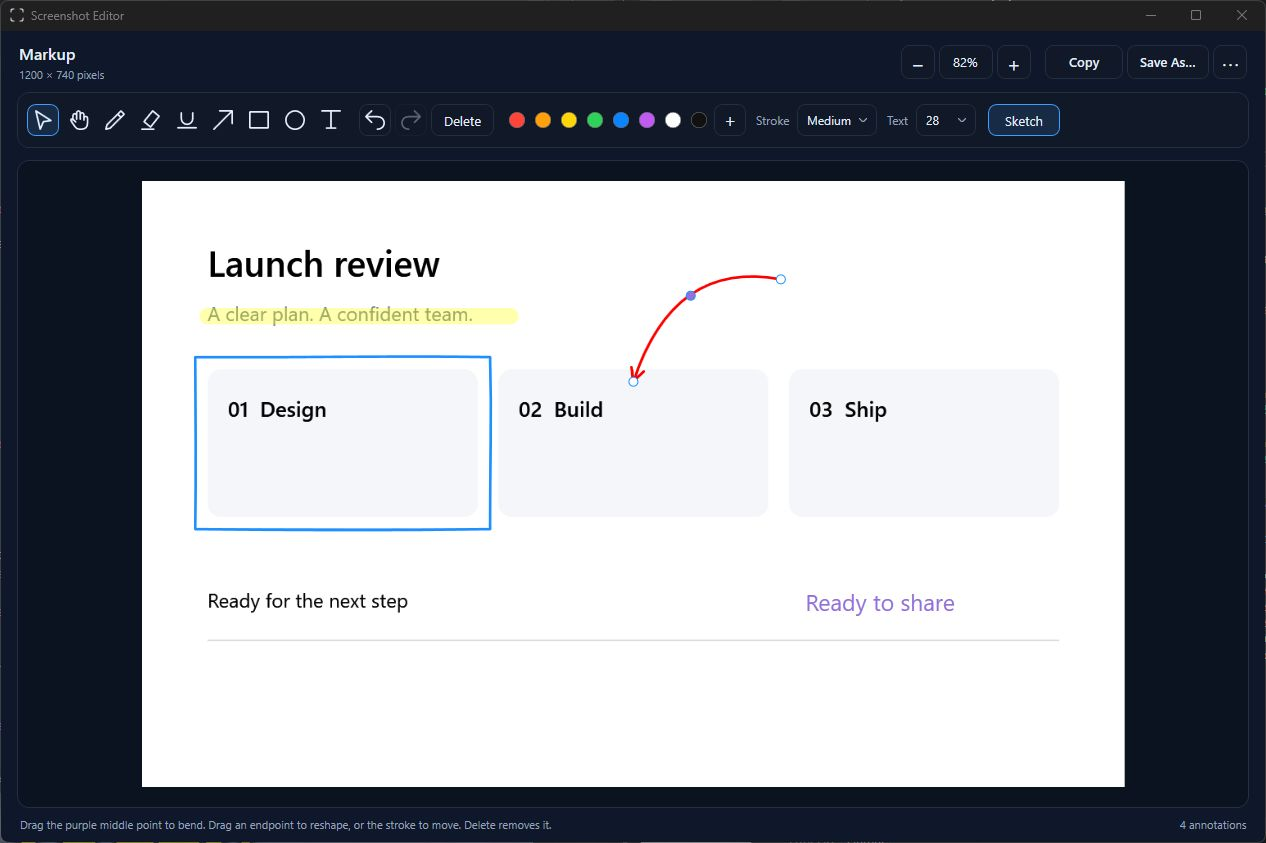
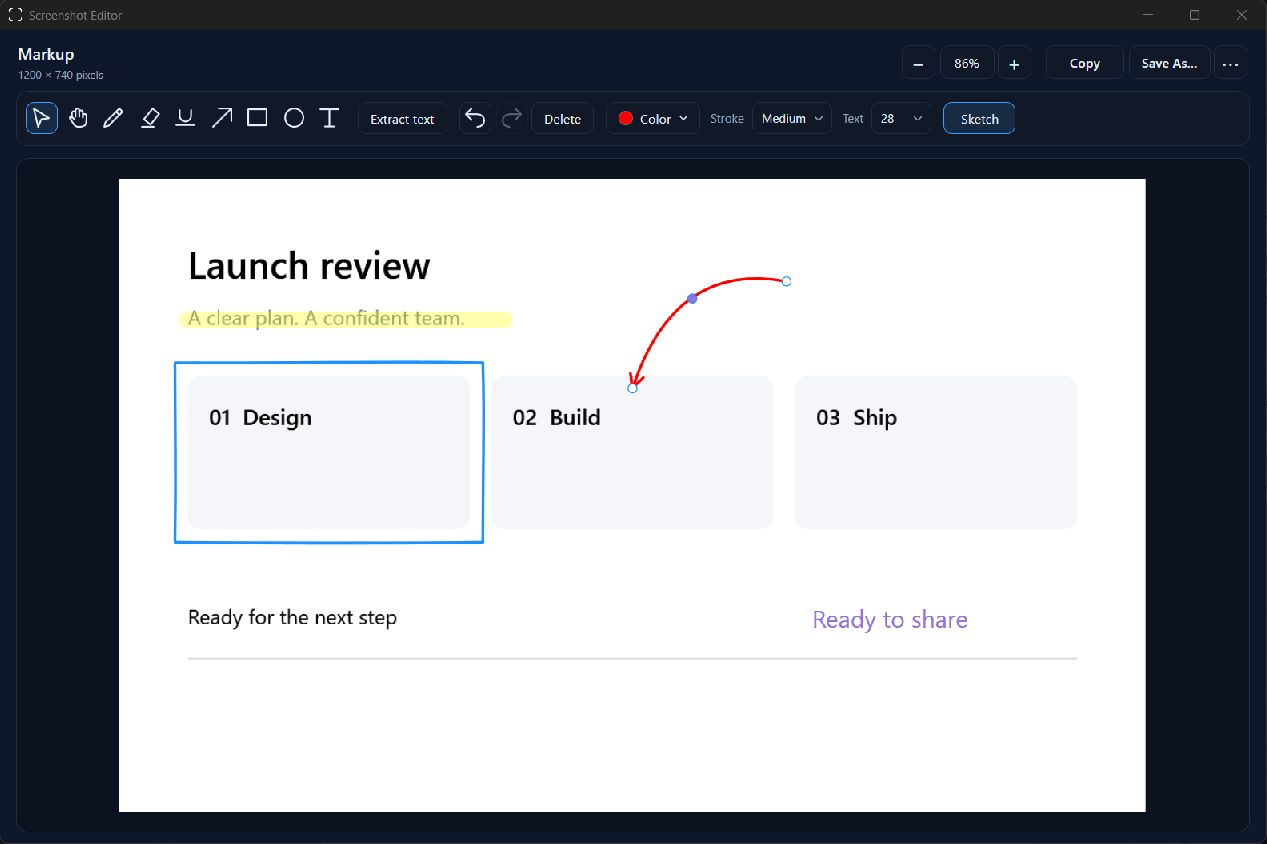
Refactor code structure for improved readability and maintainability

diff --git a/Tests/ReadmeScreenshots.cs b/Tests/ReadmeScreenshots.cs
@@ -3,6 +3,7 @@ using System.Windows;
 using System.Windows.Media;
 using System.Windows.Media.Imaging;
 using BetterScreenShot;
+using Brushes = System.Windows.Media.Brushes;
 
 internal static class ReadmeScreenshots
 {
@@ -20,7 +21,7 @@ internal static class ReadmeScreenshots
         }
         else
         {
-            var image = AnnotationTests.CreateDemoImage();
+            var image = view == "--readme-text-selection" ? TextSelectionImage() : AnnotationTests.CreateDemoImage();
             var path = Path.Combine(folder, view + ".png");
             var encoder = new PngBitmapEncoder();
             encoder.Frames.Add(BitmapFrame.Create(image));
@@ -45,9 +46,50 @@ internal static class ReadmeScreenshots
                 surface.Select(2);
                 window = editor;
             }
-            else throw new ArgumentException("Choose --readme-capture, --readme-preview, or --readme-editor.", nameof(view));
+            else if (view is "--readme-text-recognition" or "--readme-text-selection")
+            {
+                var editor = new ScreenshotViewerWindow(new TemporaryScreenshot(path), image) { Width = 1280, Height = 850 };
+                editor.ContentRendered += async (_, _) =>
+                {
+                    await editor.ExtractTextAsync();
+                    var textBox = (System.Windows.Controls.TextBox)editor.FindName("ExtractedTextBox");
+                    var first = view == "--readme-text-selection" ? "Select the words" : "clear plan";
+                    var last = view == "--readme-text-selection" ? "next line." : "confident team.";
+                    var start = textBox.Text.IndexOf(first, StringComparison.Ordinal);
+                    var end = textBox.Text.IndexOf(last, StringComparison.Ordinal);
+                    if (start < 0 || end < start) throw new InvalidOperationException("The documentation passage was not recognized: " + textBox.Text);
+                    textBox.Select(start, end + last.Length - start);
+                    textBox.Focus();
+                };
+                window = editor;
+            }
+            else throw new ArgumentException("Choose --readme-capture, --readme-preview, --readme-editor, --readme-text-recognition, or --readme-text-selection.", nameof(view));
         }
         app.Run(window);
         return 0;
+    }
+
+    private static BitmapSource TextSelectionImage()
+    {
+        var visual = new DrawingVisual();
+        using (var drawing = visual.RenderOpen())
+        {
+            drawing.DrawRectangle(Brushes.White, null, new Rect(0, 0, 1000, 620));
+            void Text(string text, double y, double size, System.Windows.Media.Brush brush) => drawing.DrawText(
+                new FormattedText(text, System.Globalization.CultureInfo.InvariantCulture, System.Windows.FlowDirection.LeftToRight,
+                    new Typeface("Segoe UI"), size, brush, 1), new System.Windows.Point(60, y));
+            Text("Meeting notes", 48, 42, Brushes.Black);
+            Text("Keep the part you need", 110, 22, Brushes.SlateGray);
+            drawing.DrawRectangle(Brushes.Gainsboro, null, new Rect(60, 158, 880, 2));
+            Text("Select the words you need,", 190, 30, Brushes.Black);
+            Text("even when they continue on the next line.", 238, 30, Brushes.Black);
+            Text("Labdien! Rīga, Latvija.", 350, 28, Brushes.Black);
+            Text("Copy a word or a whole sentence.", 405, 28, Brushes.Black);
+            Text("Notes for the next meeting", 530, 22, Brushes.SlateGray);
+        }
+        var image = new RenderTargetBitmap(1000, 620, 96, 96, PixelFormats.Pbgra32);
+        image.Render(visual);
+        image.Freeze();
+        return image;
     }
 }

diff --git a/docs/screenshots/README.md b/docs/screenshots/README.md
@@ -2,14 +2,28 @@
 
 These JPEGs are captures of the actual Windows app windows. The sample document and annotations come from documentation fixtures; no personal desktop content or saved user preferences are included.
 
+Use English and Latvian sample text only.
+
 To refresh a screenshot, build the regression runner and open the corresponding fixture:
 
 ```powershell
 dotnet run --project Tests/BetterScreenShot.RegressionTests.csproj -c Release -- --readme-editor
 dotnet run --project Tests/BetterScreenShot.RegressionTests.csproj -c Release -- --readme-capture
 dotnet run --project Tests/BetterScreenShot.RegressionTests.csproj -c Release -- --readme-preview
+
+dotnet run --project Tests/BetterScreenShot.RegressionTests.csproj -c Release -- --readme-text-recognition
+
+dotnet run --project Tests/BetterScreenShot.RegressionTests.csproj -c Release -- --readme-text-selection
 ```
 
-Capture just the app window and replace `editor.jpg`, `capture.jpg`, or `preview.jpg`. Hover over the preview to reveal its actions before capturing it. Close each fixture window when finished. The fixture uses its own temporary sample images and shortcut store, leaving the installed app's settings intact.
+Capture just the app window and replace the corresponding image. Hover over the preview to reveal its actions before capturing it. For the OCR fixtures, wait for recognition and the panel animation to finish; the fixture selects the sample passage automatically. Close each fixture window when finished. The fixture uses its own temporary sample images and shortcut store, leaving the installed app's settings intact.
+
+| Image | Fixture | Shows |
+| --- | --- | --- |
+| `editor.jpg` | `--readme-editor` | Annotation tools, compact color menu, and an editable curved arrow |
+| `capture.jpg` | `--readme-capture` | Full-screen and area capture launcher |
+| `preview.jpg` | `--readme-preview` | Temporary capture preview and quick actions |
+| `text-recognition.jpg` | `--readme-text-recognition` | Local text extraction and synchronized image/panel selection |
+| `text-selection.jpg` | `--readme-text-selection` | A selection across two lines, blue handles, and English/Latvian sample text |
 
 The root README uses relative image paths so the screenshots display on GitHub alongside the source code.

diff --git a/README.md b/README.md
@@ -20,6 +20,10 @@ Mark up a screenshot with highlights, editable shapes, curved arrows, and text, 
 
 ![Screenshot editor with a highlighted heading, blue rectangle, editable curved arrow, and text annotation](docs/screenshots/editor.jpg)
 
+Extract text locally, then select the same passage in the image and the results panel.
+
+![Screenshot editor with recognized text in the side panel and matching words selected in the image](docs/screenshots/text-recognition.jpg)
+
 | Capture a screen or area | Preview and quick actions |
 | --- | --- |
 | <img src="docs/screenshots/capture.jpg" alt="Capture launcher with full-screen and area selection options" width="480"> | <img src="docs/screenshots/preview.jpg" alt="Screenshot preview with Copy, Save, Edit, and Discard actions" width="300"> |
@@ -117,6 +121,8 @@ The editor keeps a visual for each annotation. Adding, replacing, or removing a 
 Open a capture in the editor, use the **Select** tool, and **double-click a word directly on the image**. Recognition starts automatically, the word is highlighted, and the same word is selected in the text panel. Press **Ctrl+C** to copy just that word. Word highlights follow zoom and pan and are excluded from copied or saved images. Double-clicking an editable text annotation still edits that annotation.
 
 Drag the blue handle at either end of a text selection to include adjacent words or shrink the range. Selections follow reading order across line breaks, so a sentence can span multiple lines. Dragging across the opposite handle reverses the selection direction; Escape restores the range from before the drag. The text panel stays synchronized and Ctrl+C copies the entire selected passage. Handles keep a constant display size when zooming and are excluded from image exports.
+
+![A sentence selected across two image lines with blue selection handles and matching text selected in the side panel, using English and Latvian sample text](docs/screenshots/text-selection.jpg)
 
 You can also click **Extract text**, or press **Ctrl+Shift+T** with the canvas focused. The button toggles the results panel open and closed, including while recognition is running. Reopening uses cached results when available. The centered X button also closes the panel.
 
